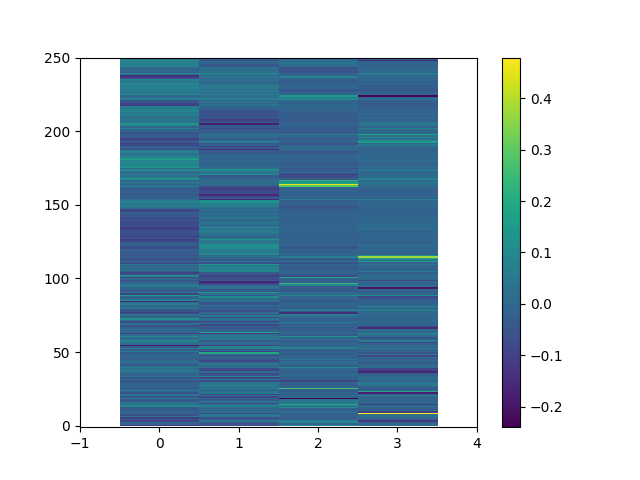
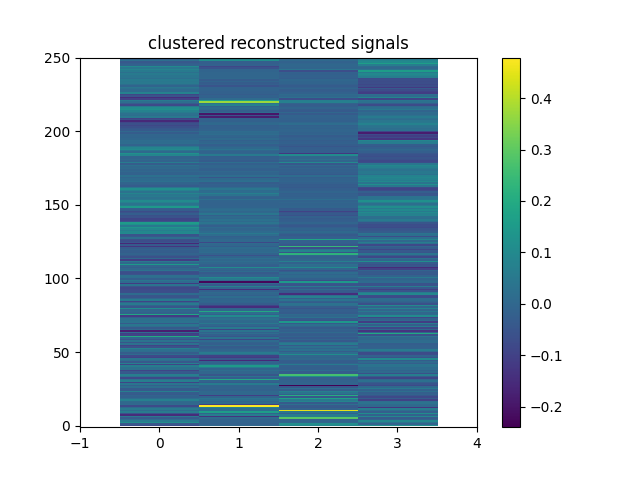
update launch 2

Changed region(s): [[0.1875, 0.0625, 0.6875, 0.9062], [0.8125, 0.4062, 0.875, 0.4375]]

diff --git a/fastICA/main.py b/fastICA/main.py
@@ -22,8 +22,8 @@ def array_print(M, min_value=None, max_value=None, name=None):
     plt.xlim(-1, shape[1])
     plt.ylim(-1, shape[0])
     plt.gca().set_aspect('auto', adjustable='box')
-    plt.savefig('images_{x}/frame_{y}.png'.format_map({'x': episode_num, 'y': img_cnt}))
     plt.title(name)
+    plt.savefig('images_{x}/frame_{y}.png'.format_map({'x': episode_num, 'y': img_cnt}))
     plt.show()
 
 
@@ -58,34 +58,6 @@ def signals_gen():
     array_print(M=S, min_value=-1.5, max_value=1.5, name="standardized noisy signal matrix")
 
     return S
-
-
-def data_read(filename, out_x, out_y):
-    # Считывание входных данных
-    x = list(list())
-    y = list()
-    with open(filename, 'r') as csvfile:
-        plots = csv.reader(csvfile, delimiter='\t')
-        for row in plots:
-            y.append(row[0])
-            x.append(row[1:])
-
-    X = np.array(x).astype(float)
-    Y = np.array(y).astype(str)
-    np.savetxt(out_x, X, fmt='%0.8f')
-    np.savetxt(out_y, Y, fmt='%s')
-
-    return X
-
-
-def solve2():
-    S = data_read('input_data/test_small.ans_025_cont', 'out1s.txt', 'out2s.txt')
-    array_print(M=S)
-
-    X = data_read('input_data/test_small_025.mtx', 'out1.txt', 'out2.txt')
-    array_print(M=X)
-
-    calculate_and_plot(X=X, n_components=4, S=S)
 
 
 def clustering(X):
@@ -159,6 +131,34 @@ def test():
     print(xarr1)
 
     array_print(M=xarr2, min_value=-3, max_value=3, name="random_sort")
+
+
+def data_read(filename, out_x, out_y):
+    # Считывание входных данных
+    x = list(list())
+    y = list()
+    with open(filename, 'r') as csvfile:
+        plots = csv.reader(csvfile, delimiter='\t')
+        for row in plots:
+            y.append(row[0])
+            x.append(row[1:])
+
+    X = np.array(x).astype(float)
+    Y = np.array(y).astype(str)
+    np.savetxt(out_x, X, fmt='%0.8f')
+    np.savetxt(out_y, Y, fmt='%s')
+
+    return X
+
+
+def solve2():
+    S = data_read('input_data/test_small.ans_025_cont', 'out1s.txt', 'out2s.txt')
+    array_print(M=S, name="true signal matrix")
+
+    X = data_read('input_data/test_small_025.mtx', 'out1.txt', 'out2.txt')
+    array_print(M=X, name="true observation matrix")
+
+    calculate_and_plot(X=X, n_components=4, S=S)
 
 
 def solve():
